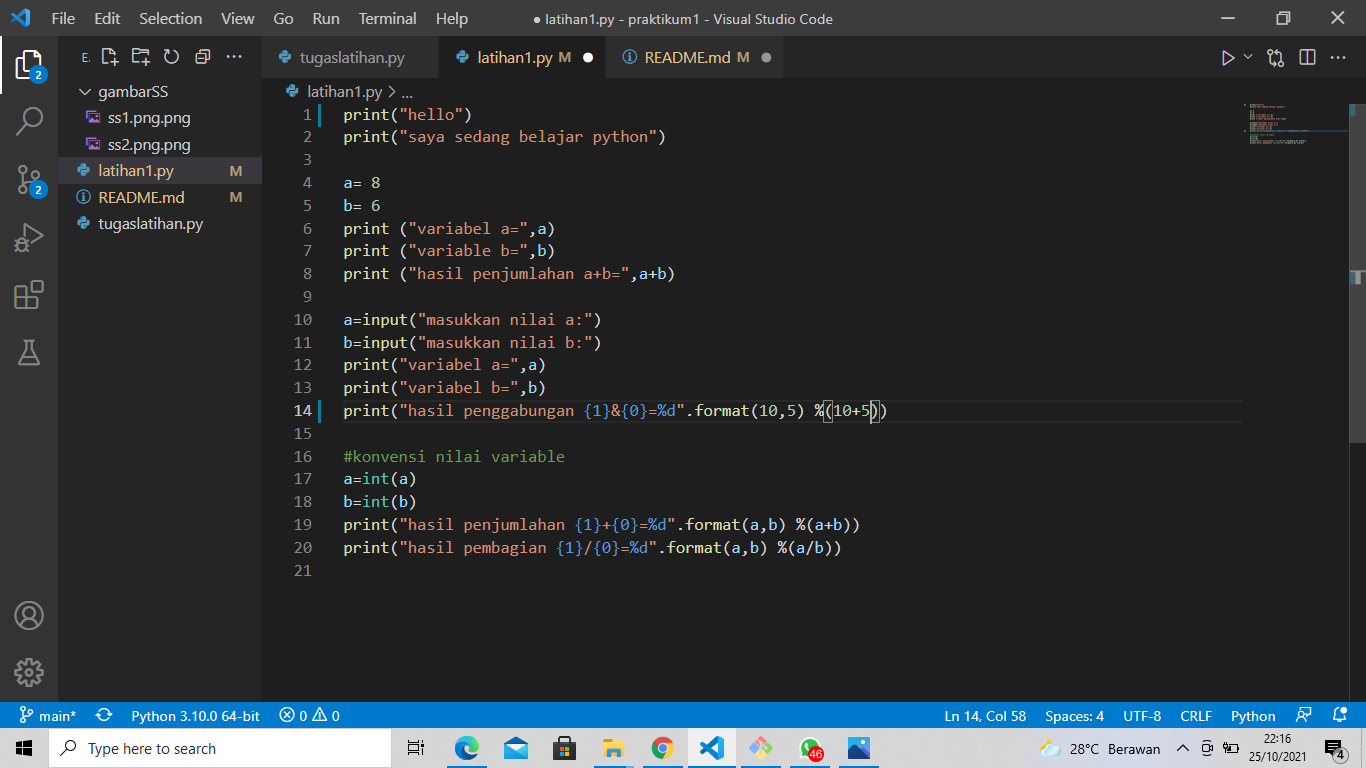
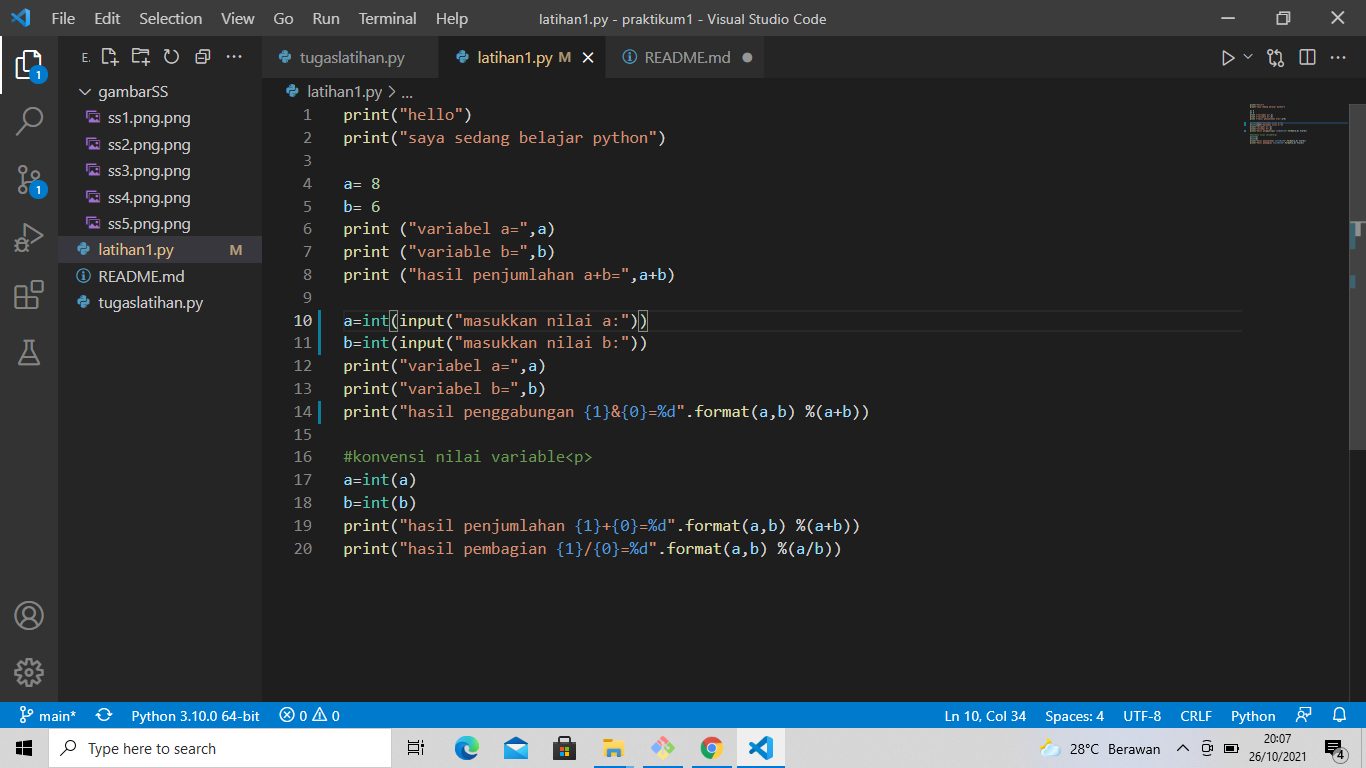
perubahan

diff --git a/latihan1.py b/latihan1.py
@@ -7,11 +7,11 @@ print ("variabel a=",a)
 print ("variable b=",b)
 print ("hasil penjumlahan a+b=",a+b)
 
-a=input("masukkan nilai a:")
-b=input("masukkan nilai b:")
+a=int(input("masukkan nilai a:"))
+b=int(input("masukkan nilai b:"))
 print("variabel a=",a)
 print("variabel b=",b)
-print("hasil penggabungan {1}&{0}=%d".format(10,5) %(10+5))
+print("hasil penggabungan {1}&{0}=%d".format(a,b) %(a+b))
 
 #konvensi nilai variable<p>
 a=int(a)

diff --git a/README.md b/README.md
@@ -51,7 +51,7 @@ seperti ini tampilannya
 
 ### INPUT 
 
-inilah inputan dari proses latihan1.py yang kita buat.kita harus memasukkan angka real pada (format(a,b) %(a+b)) di line ini "print("hasil penggabungan {1}&{0}=%d".format(a,b) %(a+b)" jika kita tidak mengubah variabel dengan angka real output akan error<p>
+inilah inputan dari proses latihan1.py yang kita buat.kita harus menambahkan (int) pada (a=input("masukkan nilai a:") b=input("masukkan nilai b:")) jika kita tidak menambahkan (int) proses akan error karena hasil inputan variabel a,b tipenya string. seperti ini  <p>
 
 ![gambar3](gambarSS/ss3.png.png)
 
@@ -64,8 +64,8 @@ print ("variabel a=",a)<p>
 print ("variable b=",b)<p>
 print ("hasil penjumlahan a+b=",a+b)<p>
 
-a=input("masukkan nilai a:")<p>
-b=input("masukkan nilai b:")<p>
+a=int(input("masukkan nilai a:"))<p>
+b=int(input("masukkan nilai b:"))<p>
 print("variabel a=",a)<p>
 print("variabel b=",b)<p>
 print("hasil penggabungan {1}&{0}=%d".format(10,5) %(10+5))<p>
@@ -81,24 +81,23 @@ ini tampilannya
 
 ### OUTPUT
 
-inilah output dari proses input yang kita buat. kita harus mengubah variabel (a) dan (b) pada (format(a,b) %(a+b)) di line ini "print("hasil penggabungan {1}&{0}=%d".format(a,b) %(a+b)" dengan angka real agar output akan dapat berjalan.<p>
+inilah output dari proses input yang kita buat. setelah kita tambahkan (int) pada (a=int(input("masukkan nilai a:") b=int(input("masukkan nilai b:")) proses akan dapat berjalan sesuai dengan variabel a dan b yang kita masukkan <p>
 
 seperti berikut
-
-hello<p>
-saya sedang belajar python<p>
-variabel a= 8<p>
-variable b= 6<p>
-hasil penjumlahan a+b= 14<p> 
-masukkan nilai a:8<p>
-masukkan nilai b:4<p>
-variabel a= 8<p>
-variabel b= 4<p>
-hasil penggabungan 5&10=15<p>
-hasil penjumlahan 4+8=12<p>
-hasil pembagian 4/8=2<p>
+hello
+saya sedang belajar python
+variabel a= 8
+variable b= 6
+hasil penjumlahan a+b= 14 
+masukkan nilai a:8
+masukkan nilai b:4
+variabel a= 8
+variabel b= 4
+hasil penggabungan 4&8=12
+hasil penjumlahan 4+8=12
+hasil pembagian 4/8=2
 
 output sebagai berikut jika kita masukkan nilai pada variabel a=8 dan variabel b=4 akan muncul 
-hasil pemjumlahan sebagai berikut (hasil pengabungan 5&10),(hasil penjumlahan 4+8=12),(hasil pembagian 4/8=2) <p>
+hasil pemjumlahan sebagai berikut (hasil pengabungan 8&4),(hasil penjumlahan 4+8=12),(hasil pembagian 4/8=2) <p>
 
 ![gambar5](gambarSS/ss5.png.png)
